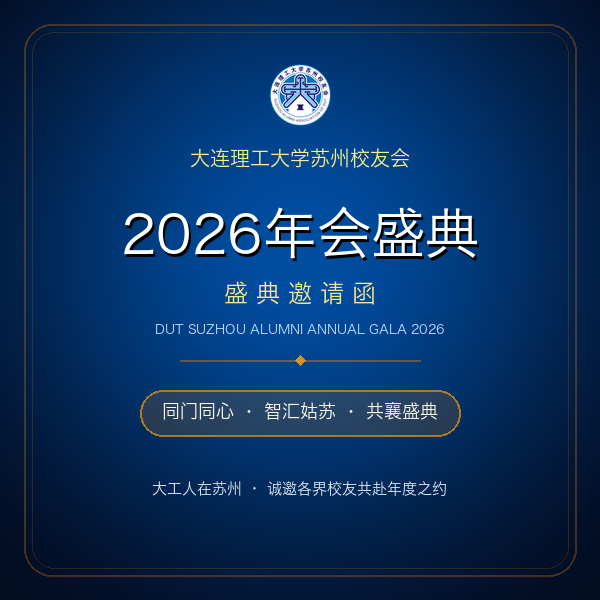
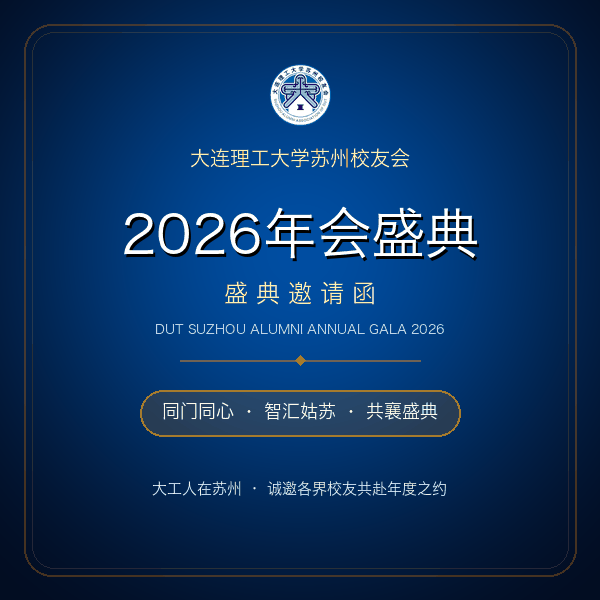
fix(share): 彻底修复年会与招商独立页面的微信分享缩略图，修复首图渲染尺寸、动态解析完整URL并压缩图片

diff --git a/public/annual-gala-intro.html b/public/annual-gala-intro.html
@@ -12,6 +12,25 @@
   <meta property="og:image" content="images/share-gala.png">
   <meta itemprop="image" content="images/share-gala.png">
   <link rel="image_src" href="images/share-gala.png">
+  <script>
+    (function() {
+      try {
+        var base = window.location.href.split('?')[0].split('#')[0];
+        var dir = base.substring(0, base.lastIndexOf('/') + 1);
+        var fullImgUrl = dir + 'images/share-gala.png';
+        var og = document.querySelector('meta[property="og:image"]');
+        if (og) og.setAttribute('content', fullImgUrl);
+        var item = document.querySelector('meta[itemprop="image"]');
+        if (item) item.setAttribute('content', fullImgUrl);
+        var link = document.querySelector('link[rel="image_src"]');
+        if (link) link.setAttribute('href', fullImgUrl);
+        window.addEventListener('DOMContentLoaded', function() {
+          var img = document.getElementById('wx-share-thumb');
+          if (img) img.src = fullImgUrl;
+        });
+      } catch (e) {}
+    })();
+  </script>
   <style>
     /* =========================================================
        大工蓝金·精英浅色设计系统 (Mobile First / 微信 H5 极佳阅读体验)
@@ -869,9 +888,9 @@
   </style>
 </head>
 <body>
-  <!-- WeChat share card thumbnail helper -->
-  <div style="position: absolute; top: -9999px; left: -9999px; width: 0; height: 0; overflow: hidden;">
-    <img src="images/share-gala.png" width="300" height="300" alt="大工苏州校友会 2026 年会盛典" />
+  <!-- WeChat share card thumbnail helper (off-screen with real 300x300 dimensions, no width:0/height:0) -->
+  <div style="position: absolute; top: -9999px; left: -9999px; z-index: -9999; pointer-events: none;">
+    <img id="wx-share-thumb" src="images/share-gala.png" width="300" height="300" style="width: 300px; height: 300px; display: block;" alt="大工苏州校友会 2026 年会盛典" />
   </div>
 
   <div class="app-wrapper">

diff --git a/public/annual-gala-sponsorship.html b/public/annual-gala-sponsorship.html
@@ -15,6 +15,25 @@
   <meta property="og:image" content="images/share-sponsorship.png">
   <meta itemprop="image" content="images/share-sponsorship.png">
   <link rel="image_src" href="images/share-sponsorship.png">
+  <script>
+    (function() {
+      try {
+        var base = window.location.href.split('?')[0].split('#')[0];
+        var dir = base.substring(0, base.lastIndexOf('/') + 1);
+        var fullImgUrl = dir + 'images/share-sponsorship.png';
+        var og = document.querySelector('meta[property="og:image"]');
+        if (og) og.setAttribute('content', fullImgUrl);
+        var item = document.querySelector('meta[itemprop="image"]');
+        if (item) item.setAttribute('content', fullImgUrl);
+        var link = document.querySelector('link[rel="image_src"]');
+        if (link) link.setAttribute('href', fullImgUrl);
+        window.addEventListener('DOMContentLoaded', function() {
+          var img = document.getElementById('wx-share-thumb');
+          if (img) img.src = fullImgUrl;
+        });
+      } catch (e) {}
+    })();
+  </script>
   <style>
     :root {
       --navy-900: #0f172a;
@@ -958,9 +977,9 @@
   </style>
 </head>
 <body>
-  <!-- WeChat share card thumbnail helper -->
-  <div style="position: absolute; top: -9999px; left: -9999px; width: 0; height: 0; overflow: hidden;">
-    <img src="images/share-sponsorship.png" width="300" height="300" alt="2026年大工苏州校友年会赞助合作方案" />
+  <!-- WeChat share card thumbnail helper (off-screen with real 300x300 dimensions, no width:0/height:0) -->
+  <div style="position: absolute; top: -9999px; left: -9999px; z-index: -9999; pointer-events: none;">
+    <img id="wx-share-thumb" src="images/share-sponsorship.png" width="300" height="300" style="width: 300px; height: 300px; display: block;" alt="2026年大工苏州校友年会赞助合作方案" />
   </div>
 
   <div class="app-wrapper">
